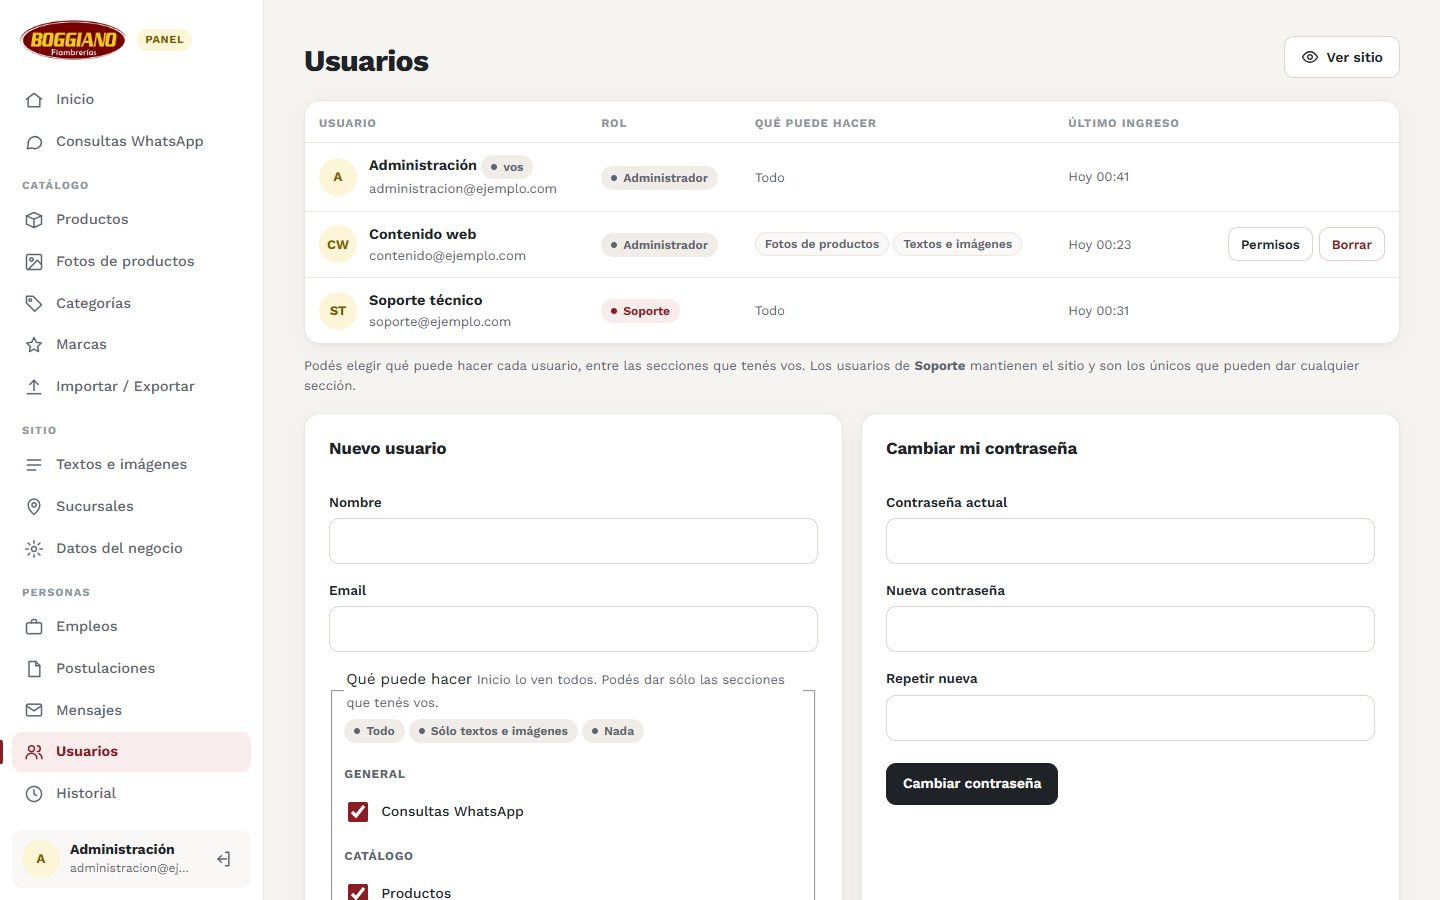
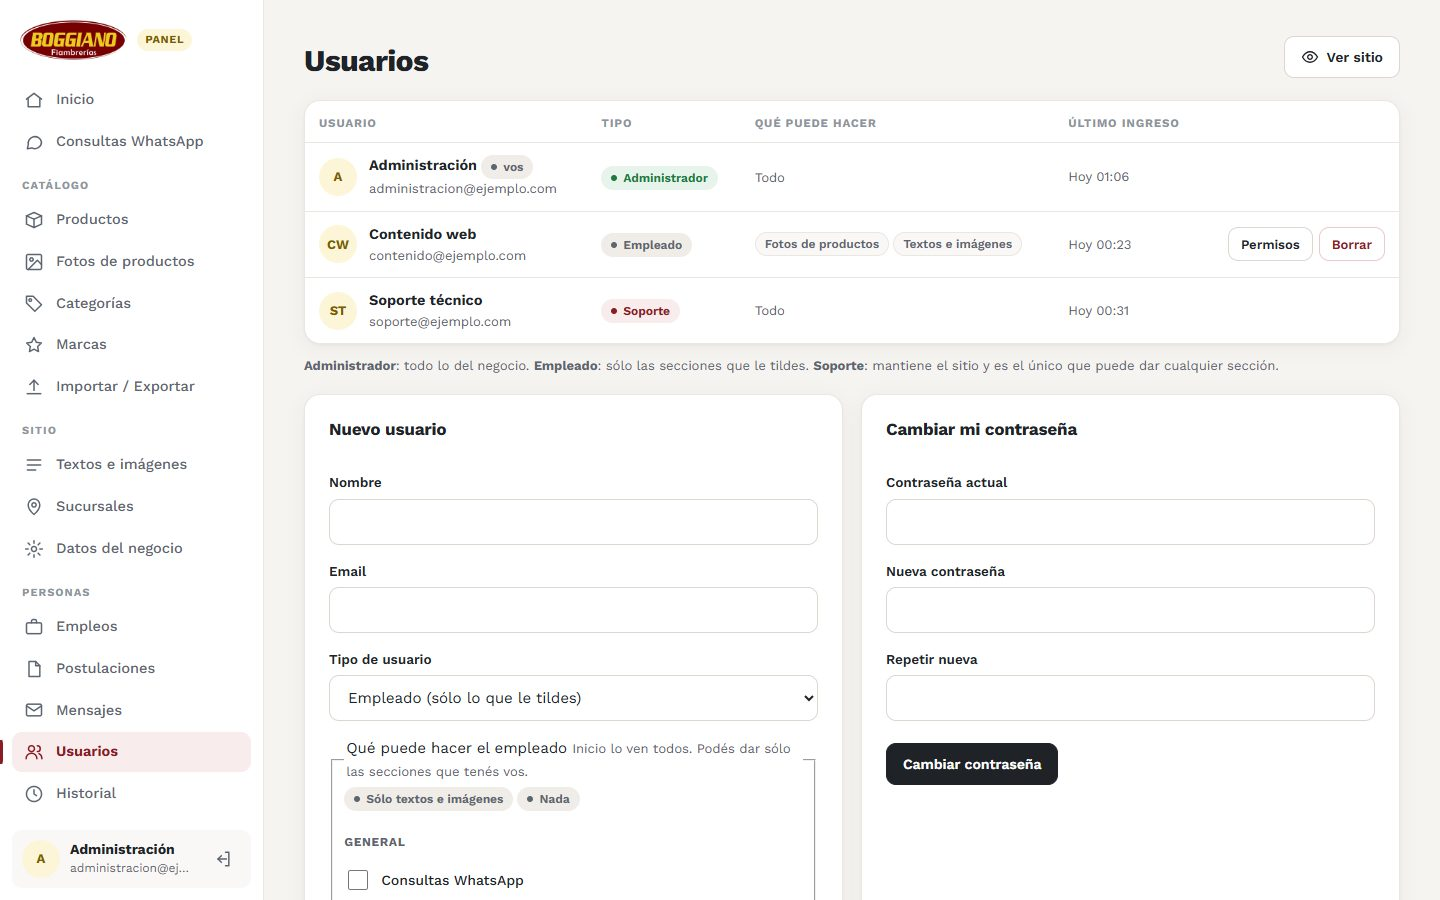
Usuarios: tipos Administrador, Empleado y Soporte

diff --git a/guia/11-usuarios.md b/guia/11-usuarios.md
@@ -6,34 +6,36 @@
 
 ![Usuarios](../img/usuarios.jpg)
 
-## Roles: Administrador y Soporte
+## Tipos de usuario
 
-Cada usuario tiene un rol, que se ve en la columna **Rol**:
+Cada usuario es de un tipo, que se ve en la columna **Tipo**:
 
-- **Administrador**: carga y cambia lo del negocio (productos, sucursales, búsquedas, postulaciones, mensajes, textos…), **en las secciones que tenga permitidas**.
-- **Soporte**: es quien mantiene el sitio. Ve todo y decide qué secciones del panel están habilitadas. Las secciones nuevas aparecen recién cuando soporte las habilita.
+| Tipo | Qué puede hacer |
+|---|---|
+| **Administrador** | Todo lo del negocio: productos, sucursales, búsquedas, postulaciones, mensajes, textos… |
+| **Empleado** | Sólo las secciones que le tildaron. Por ejemplo, *Textos e imágenes · Fotos de productos* para quien carga el contenido del sitio. |
+| **Soporte** | Mantiene el sitio. Ve todo y decide qué secciones del panel están habilitadas. |
 
 Si buscás una sección que no aparece en el menú, pedísela a soporte. Que una sección esté apagada no borra nada de lo que tenga cargado.
 
-Un administrador no puede borrar a un usuario de soporte ni cambiar roles.
-
-## Qué puede hacer cada usuario
-
-La columna **Qué puede hacer** muestra las secciones que tiene cada persona: **Todo**, o sólo algunas, por ejemplo *Textos e imágenes · Fotos de productos* para alguien que carga el contenido del sitio y no toca productos, búsquedas ni usuarios.
-
-- Al crear un usuario, en **Qué puede hacer** tildás sus secciones. Los atajos **Todo**, **Sólo textos e imágenes** y **Nada** las marcan de una vez.
-- Para cambiarlas después, tocá **Permisos** en su fila.
-- Podés dar **sólo las secciones que tenés vos**. Si le das **Usuarios** a un empleado, él también puede crear usuarios y elegir sus permisos, siempre dentro de lo que tiene.
-- No podés cambiar ni borrar a alguien que tenga secciones que vos no tenés, ni a soporte, ni tus propios permisos.
-- Nombrar a alguien **Soporte** lo hace sólo soporte.
-- Esa persona ve en el menú sólo lo suyo, y si entra con el link de otra sección vuelve al inicio.
-- En **Historial**, cada uno deshace sólo los cambios de las secciones que tiene.
-
 ## Crear un usuario
 
-Completá **Nombre**, **Email** y una **contraseña de al menos 10 caracteres**, dos veces, y tocá **Crear usuario**. El email es con lo que esa persona va a entrar: no tiene que ser una casilla del dominio, puede ser su Gmail. Los usuarios nuevos se crean como **Administrador**, con las secciones que les tildes.
+1. Completá **Nombre** y **Email**. El email es con lo que esa persona va a entrar: no tiene que ser una casilla del dominio, puede ser su Gmail.
+2. Elegí el **Tipo de usuario**: **Empleado** o **Administrador**.
+3. Si es **Empleado**, tildá en **Qué puede hacer el empleado** las secciones que va a usar. El atajo **Sólo textos e imágenes** marca Textos e imágenes y Fotos de productos de una vez; **Nada** las destilda.
+4. Poné una **contraseña de al menos 10 caracteres**, dos veces, y tocá **Crear usuario**.
 
 Pasale la contraseña por un medio seguro: en persona o por teléfono, no por un mensaje que quede guardado. Pedile que la cambie la primera vez que entre.
+
+## Cambiar el tipo o las secciones de alguien
+
+Tocá **Permisos** en su fila: ahí cambiás el tipo y, si es Empleado, sus tildes. Lo ve la próxima vez que abra una página del panel.
+
+- **Un Administrador** puede crear Administradores y Empleados.
+- **Un Empleado al que le dieron Usuarios** puede crear otros Empleados, sólo con secciones que tiene él.
+- Nadie puede cambiar ni borrar a alguien que tenga secciones que él no tiene, ni a soporte, ni sus propios permisos. Nombrar a alguien **Soporte** lo hace sólo soporte.
+- Cada uno ve en el menú sólo lo suyo; si entra con el link de otra sección, vuelve al inicio.
+- En **Historial**, cada uno deshace sólo los cambios de las secciones que tiene.
 
 ## Cambiar tu contraseña
 

diff --git a/README.md b/README.md
@@ -69,8 +69,8 @@ Hoy el sitio está publicado pero con **datos de ejemplo**. En este orden:
 | Lo que queda escrito al abrir WhatsApp | Textos e imágenes → WhatsApp | [10](guia/10-textos-e-imagenes.md#mensajes-de-whatsapp) |
 | Ver cuántas consultas llegan por WhatsApp | Consultas WhatsApp | [14](guia/14-consultas-por-whatsapp.md) |
 | Quién puede entrar al panel | Usuarios | [11](guia/11-usuarios.md) |
-| Una sección que no aparece en el menú | La habilita soporte | [11](guia/11-usuarios.md#roles-administrador-y-soporte) |
-| Qué puede hacer cada usuario (por ejemplo, sólo textos e imágenes) | Usuarios → Permisos | [11](guia/11-usuarios.md#qué-puede-hacer-cada-usuario) |
+| Una sección que no aparece en el menú | La habilita soporte | [11](guia/11-usuarios.md#tipos-de-usuario) |
+| Crear un empleado que sólo haga algunas cosas (por ejemplo, textos e imágenes) | Usuarios → Tipo: Empleado | [11](guia/11-usuarios.md#tipos-de-usuario) |
 | Leer los mails de las casillas | Webmail o Gmail | [12](guia/12-correo.md) |
 | Ver quién cambió algo, o deshacer un cambio | Historial | [16](guia/16-historial.md) |
 | Respaldos y qué no tocar | — | [13](guia/13-mantenimiento.md) |

diff --git a/guia/03-productos.md b/guia/03-productos.md
@@ -71,7 +71,7 @@ Tocá **+ Nuevo producto** o **Editar**.
 
 ## Subir muchas fotos juntas (Fotos en lote)
 
-**En el panel:** menú **Fotos de productos** (también desde **Productos → Fotos en lote**). Es una sección aparte: alguien puede tener permiso para subir fotos sin poder editar ni borrar productos (ver [Usuarios](11-usuarios.md#qué-puede-hacer-cada-usuario)).
+**En el panel:** menú **Fotos de productos** (también desde **Productos → Fotos en lote**). Es una sección aparte: alguien puede tener permiso para subir fotos sin poder editar ni borrar productos (ver [Usuarios](11-usuarios.md#tipos-de-usuario)).
 
 1. **Nombrá cada foto como el producto.** `jamon-crudo.jpg` va a "Jamón crudo", y `Salame Milán.png` va a "Salame Milán". No importan las mayúsculas, los acentos ni si usás espacios o guiones.
 2. **Si hay dos productos con el mismo nombre** (por ejemplo, dos quesos azules de marcas distintas), agregá la marca: `queso-azul-la-paulina.jpg`.
